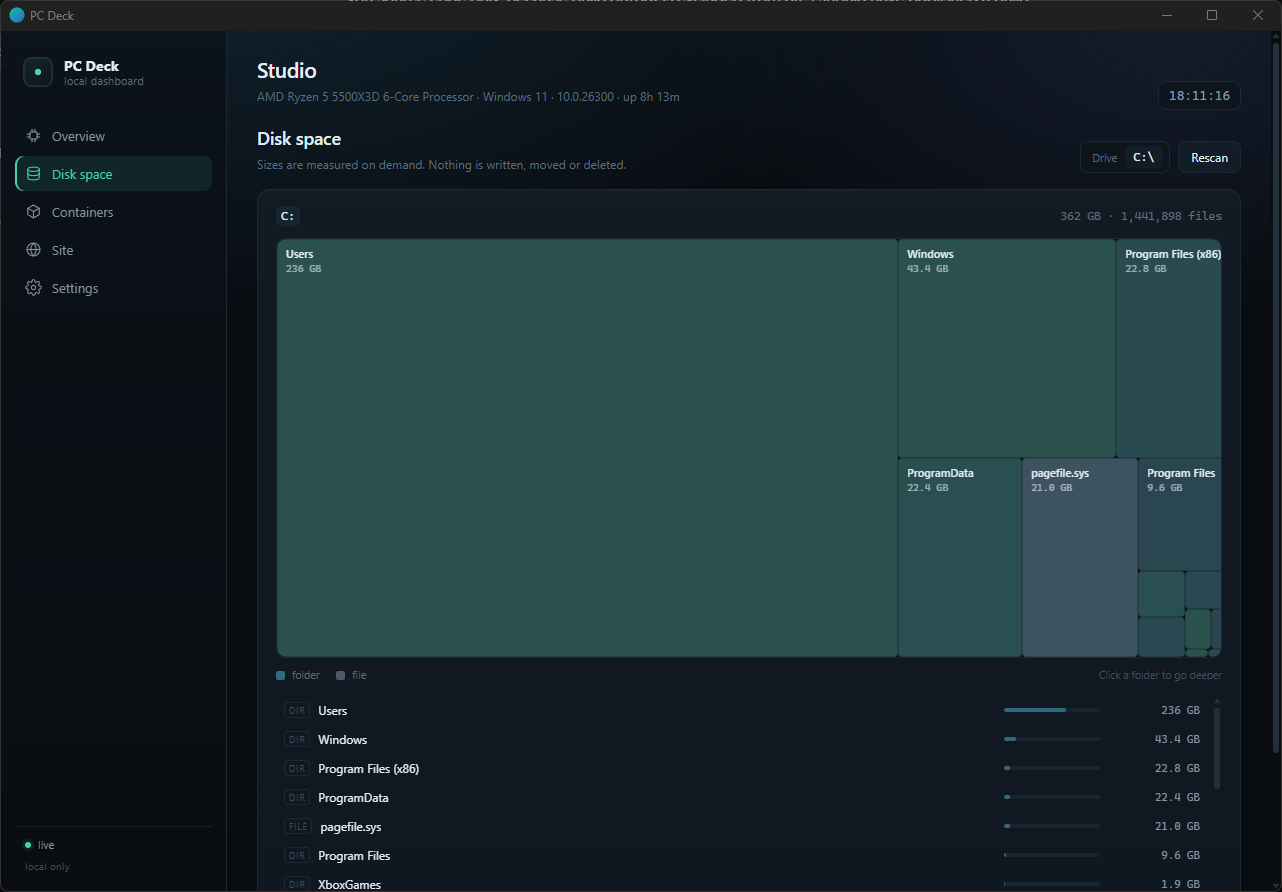
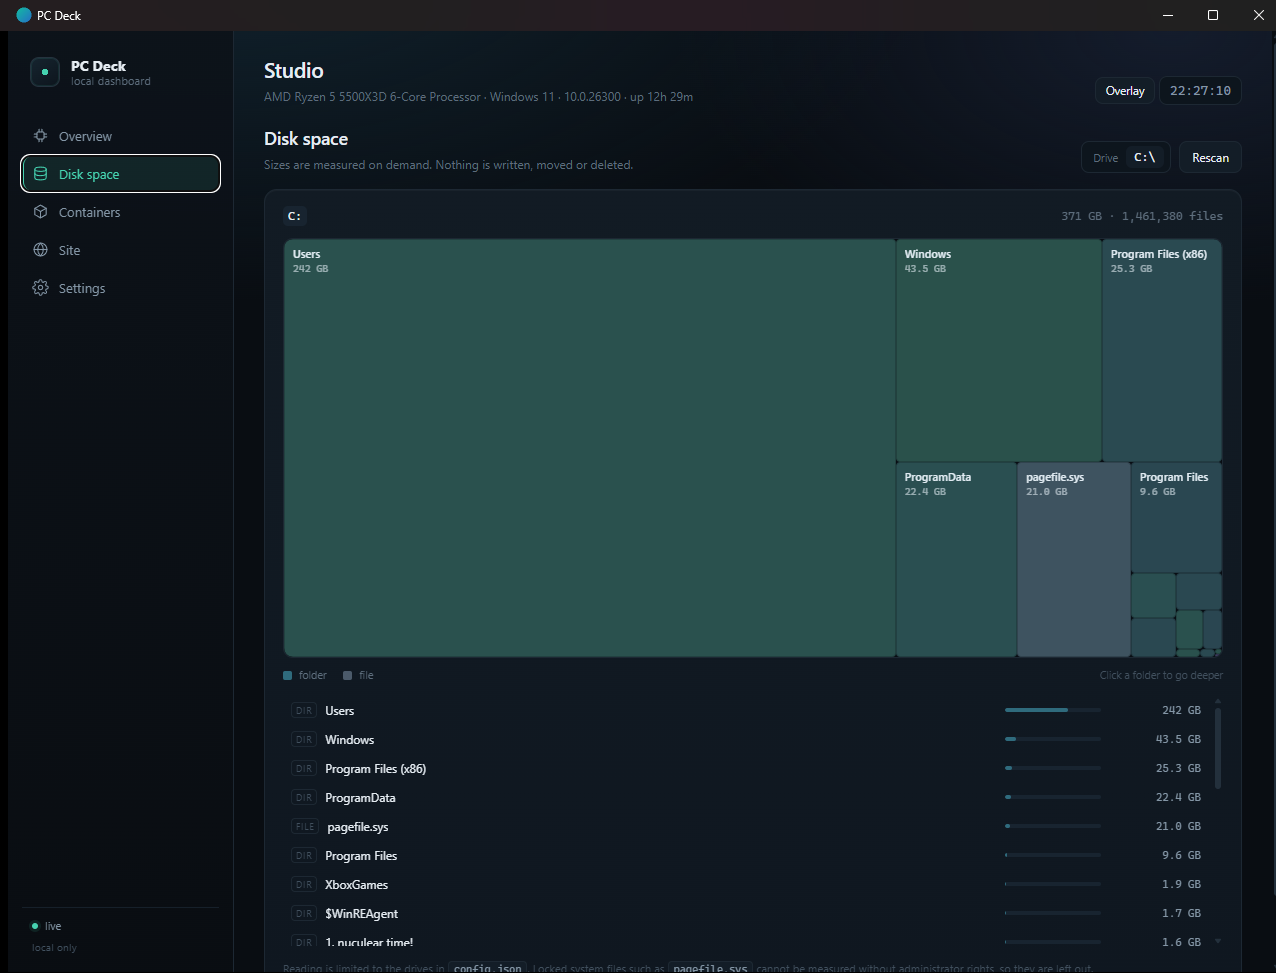
Clean up stale config and listing details
Drop the pre-Rust server's unused port setting, correct the README's sites
default and project layout, and recapture screenshots at a taller window.

diff --git a/src/config.rs b/src/config.rs
@@ -31,7 +31,6 @@ impl Site {
 
 #[derive(Clone, Debug)]
 pub struct Config {
-    pub port: u16,
     pub theme: String,
     pub disk_roots: Vec<String>,
     pub refresh_ms: u64,
@@ -229,12 +228,6 @@ pub fn normalize(raw: &Value) -> Config {
         .to_string();
 
     Config {
-        port: clamp(
-            source.and_then(|o| o.get("port")).unwrap_or(&Value::Null),
-            1024,
-            65535,
-            4317,
-        ) as u16,
         theme,
         disk_roots: if roots.is_empty() { detect_roots() } else { roots },
         refresh_ms: clamp(
@@ -292,7 +285,6 @@ pub fn load() -> (Config, Option<String>) {
         }
     } else {
         let defaults = Config {
-            port: 4317,
             theme: "midnight".to_string(),
             disk_roots: detect_roots(),
             refresh_ms: 2000,
@@ -313,7 +305,6 @@ pub fn load() -> (Config, Option<String>) {
 
 pub fn to_value(config: &Config) -> Value {
     json!({
-        "port": config.port,
         "theme": config.theme,
         "diskRoots": config.disk_roots,
         "refreshMs": config.refresh_ms,

diff --git a/README.md b/README.md
@@ -36,7 +36,8 @@ administrator rights. Double-click it and the window opens.
 - **Overview** — CPU load overall and per core with a rolling sparkline, memory, GPU temperature, fan,
   load, VRAM and power, drive capacity, uptime, and how much memory the app itself uses.
 - **Overlay** — the **Overlay** button in the header pins a small always-on-top card with CPU, memory and
-  GPU beside your work or game. Drag it by its title bar; hide it with the × button or Esc.
+  GPU beside your work or game. Drag it by its title bar; hide it with the × button, or with Esc
+  while the overlay has focus.
 - **Disk space** — a WizTree-style squarified treemap with the largest files, a ranked list and
   click-to-drill navigation. Scans are on demand, cached for ten minutes, and capped so a huge drive
   can never hang the app.
@@ -119,7 +120,7 @@ Without a helper the app still works, using the GPU sensors that nvidia-smi expo
 | `docker.refreshMs` | `6000` | Container list refresh interval. |
 | `libreHardwareMonitor.enabled` | `true` | Use a local sensor helper. |
 | `libreHardwareMonitor.url` | `http://127.0.0.1:8085` | Helper address; must be loopback. |
-| `sites` | one example | Site entries, admin URLs and quick links. |
+| `sites` | empty | Site entries, admin URLs and quick links. |
 
 URLs accept `example.com` as well as `https://example.com`.
 
@@ -144,7 +145,7 @@ changing a probe.
 ```
 src/
   main.rs           native window, embedded UI, IPC wiring
-  api.rs            request dispatcher (same payloads the UI has always used)
+  api.rs            request dispatcher for the UI's API calls
   config.rs         defaults, validation, settings persistence
   platform.rs       fixed-argument command runner, Windows version, helpers
   bridge.js         page-side bridge that turns API calls into IPC
@@ -157,6 +158,7 @@ src/
     docker.rs       container list and start/stop/restart
     sites.rs        uptime checks
 web/                static UI (no framework, no build step, inlined at build time)
+  overlay.html      compact always-on-top card
 ```
 
 ## Known limitations
